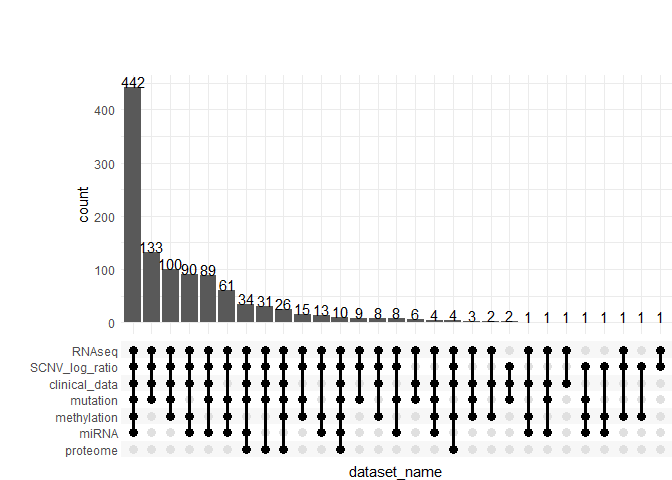
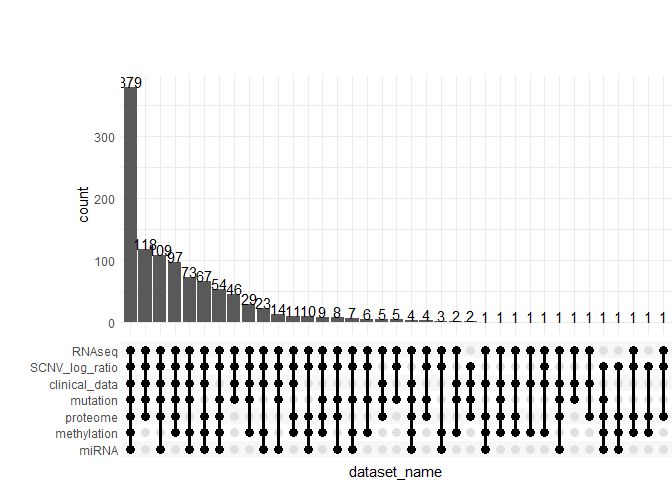
updated documentation; README v 1.4

Changed region(s): [[0.0625, 0.7188, 1.0, 0.9688], [0.125, 0.1562, 1.0, 0.6875]]

diff --git a/README.md b/README.md
@@ -35,11 +35,34 @@ clinical applications.
 
 # Installation
 
+## Development Version
+
 You can install the development version of playOmics from GitHub with:
 
 ``` r
 remotes::install_github("JagGlo/playOmics")
 ```
+
+## Docker Installation
+
+As an alternative installation method, the
+[playomics_env](https://github.com/JagGlo/playOmics_env) repository
+provides a setup for running playOmics within a Docker container. This
+setup includes testing data and scripts, offering a comprehensive R
+environment for users who prefer containerized solutions.
+
+To get started with playOmics using Docker:
+
+1.  **Installation Requirements:** Ensure you have Docker and Docker
+    Compose installed on your system.
+2.  **Repository Cloning:** Clone the
+    [playomics_env](https://github.com/JagGlo/playOmics_env) repository
+    to your local machine or server.
+3.  **Container Setup:** Follow the instructions within the repository
+    to build and start the Docker container.
+
+This method is recommended for users looking for an easy and consistent
+setup process, enabling a quick start into modelling process.
 
 # Exploring the BRCA Data
 
@@ -61,22 +84,12 @@ and additional libraries are available in your workspace.
 
 ``` r
 # load playOmics
-# library(playOmics)
+library(playOmics)
 ```
 
 ``` r
 # Load the additional required libraries
 library(tidyverse)
-#> ── Attaching core tidyverse packages ──────────────────────── tidyverse 2.0.0 ──
-#> ✔ dplyr     1.1.2     ✔ readr     2.1.4
-#> ✔ forcats   1.0.0     ✔ stringr   1.5.0
-#> ✔ ggplot2   3.4.2     ✔ tibble    3.2.1
-#> ✔ lubridate 1.9.2     ✔ tidyr     1.3.0
-#> ✔ purrr     1.0.1     
-#> ── Conflicts ────────────────────────────────────────── tidyverse_conflicts() ──
-#> ✖ dplyr::filter() masks stats::filter()
-#> ✖ dplyr::lag()    masks stats::lag()
-#> ℹ Use the conflicted package (<http://conflicted.r-lib.org/>) to force all conflicts to become errors
 library(readxl)
 ```
 
@@ -88,7 +101,6 @@ setwd() function or the here package.
 
 ``` r
 here::set_here()
-#> File .here already exists in C:\Users\jagaa\Documents\playOmics
 my_experiment_name <- "final_top5_cv5"
 ```
 
@@ -155,7 +167,7 @@ insights.
 Omics datasets that will be incorporated in the experiment:
 
 - clinical data (20 features),
-- proteome (9734 features),
+- proteome (175 features),
 - methylation (20107 features),
 - miRNA (824 features),
 - mutation (7967 features),
@@ -164,7 +176,7 @@ Omics datasets that will be incorporated in the experiment:
 
 ``` r
 proteome <-
-  read_delim("TCGA-BRCA/Human__TCGA_BRCA__BI__Proteome__QExact__01_28_2016__BI__Gene__CDAP_iTRAQ_UnsharedLogRatio_r2.cct", na = c("NA", "NA,NA"), show_col_types = F) %>%
+   read_delim("TCGA-BRCA/Human__TCGA_BRCA__MDA__RPPA__MDA_RPPA__01_28_2016__BI__Gene__Firehose_RPPA.cct", na = c("NA", "NA,NA"), show_col_types = F) %>%
   data.table::transpose(keep.names = "ID", make.names = "attrib_name") %>%
   mutate_at(vars(-ID), as.numeric)
 
@@ -174,7 +186,7 @@ methylation <-
   mutate_at(vars(-ID), as.numeric)
 
 miRNA <-
-  read_delim("TCGA-BRCA/Human__TCGA_BRCA__BDGSC__miRNASeq__HS_miR__01_28_2016__BI__Gene__Firehose_RPKM_log2.cct", na = c("NA", "NA,NA") , show_col_types = F) %>%
+  read_delim("TCGA-BRCA/Human__TCGA_BRCA__BDGSC__miRNASeq__HS_miR__01_28_2016__BI__Gene__Firehose_RPKM_log2.cct", na = c("NA", "NA,NA"), show_col_types = F) %>%
   data.table::transpose(keep.names = "ID", make.names = "attrib_name") %>%
   mutate_at(vars(-ID), as.numeric)
 
@@ -212,7 +224,7 @@ BRCA_data <- connect_datasets(clinical_data, proteome, methylation, miRNA, mutat
 BRCA_data %>% summary()
 #>                Length Class      Mode
 #> clinical_data     20  data.frame list
-#> proteome        9734  data.frame list
+#> proteome         176  data.frame list
 #> methylation    20107  data.frame list
 #> miRNA            824  data.frame list
 #> mutation        7967  data.frame list
@@ -245,8 +257,7 @@ plot_coverage(BRCA_data)
 <img src="man/figures/README-unnamed-chunk-9-1.png" width="100%" />
 
 For the BRCA data, you’ll notice various patterns of data availability,
-with the largest group (442 subjects) having complete data for six
-datasets, all except proteome.
+with the largest group (379 subjects) having complete data.
 
 ### Understanding Your Dataset
 
@@ -259,7 +270,7 @@ numeric/character/factor columns):
 data_summary(BRCA_data)
 #>     Dataset.name Number.of.samples Number.of.variables Numeric.columns
 #> 1  clinical_data               987                  20               4
-#> 2       proteome               105                9734            9733
+#> 2       proteome               887                 176             175
 #> 3    methylation               783               20107           20106
 #> 4          miRNA               755                 824             823
 #> 5       mutation               975                7967            7966
@@ -460,6 +471,7 @@ modeling experiment; let’s name them “modelling_set” for now:
 
 ``` r
 modelling_set <- splitted_data$train_data
+rm(splitted_data)
 ```
 
 As a preparation for the modeling process, we will use again the
@@ -482,7 +494,7 @@ each variable to distinguish data.
 
 ``` r
 data_prepared <-
-  prepare_data_for_modelling(data = BRCA_data_splitted$train_data, target = my_target)
+  prepare_data_for_modelling(data = BRCA_data_splitted$train_data, target = my_target, remove_correlated_features = F)
 ```
 
 Also, a test set needs to be prepared so the models can be validated on
@@ -490,7 +502,8 @@ corresponding data:
 
 ``` r
 test_data_prepared <-
-  prepare_data_for_modelling(BRCA_data_splitted$test_data, target = my_target)
+  prepare_data_for_modelling(BRCA_data_splitted$test_data, target = my_target, remove_correlated_features = F)
+rm(BRCA_data_splitted)
 ```
 
 ### Selecting features
@@ -518,10 +531,8 @@ Variables might be selected in three ways:
 
 What’s important, at this level, we are still operating on each dataset
 separately, which allows us to preserve an equal number of slots for all
-data frames.
-
-!!!! install.packages(“mlr3filters”, version=‘0.6.0’) -? due to missing
-values handling
+data frames. This approach ensures you’re working with the most relevant
+features, optimizing the model’s performance and efficiency.
 
 ``` r
 data_filtered <-
@@ -531,13 +542,36 @@ data_filtered <-
     filter_name = "auc",
     cutoff_method = "top_n",
     cutoff_treshold = 5,
+    return_ranking_list = F,
     n_fold = 5,
     n_threads = 5
   )
+rm(data_prepared)
 ```
 
-This approach ensures you’re working with the most relevant features,
-optimizing the model’s performance and efficiency.
+If the parameter “return_ranking_list” is set to TRUE, the function will
+return a list containing the filtered datasets and the ranking list. If
+you wish to obtain a ranking among all features (global ranking), you
+can use it like this:
+
+``` r
+all_data_rank <-  
+  data_filtered$ranking_list %>% 
+  bind_rows() %>%
+  arrange(desc(mean_score)) %>%
+  top_n(5, mean_score) # to select 5 features among all datasets
+
+train_data_top_5 <-
+    data_prepared %>%
+    reduce(full_join, by = c(my_target$id_variable)) %>%
+    select(-my_target$id_variable, -my_target$target_variable, everything()) %>%
+    select(my_target$id_variable, my_target$target_variable, all_data_rank$original_name)
+
+test_data_top_5 <- 
+   test_data_prepared %>%
+    reduce(full_join, by = c(my_target$id_variable)) %>%
+    select(names(train_data_top_5)) # to select the same variables as in train data
+```
 
 ### Modelling
 
@@ -575,27 +609,26 @@ lifesaver since it helps us maximize the data size, making the most of
 every single data point you have.
 
 ``` r
-create_multiple_models(
-  experiment_name = my_experiment_name,
-  train_data = data_filtered,
-  test_data = test_data_prepared,
-  target = my_target,
-  n_max = 3,
-  validate_with_permutation = FALSE,
-  n_perm = NULL,
-  trim_models = TRUE,
-  trim_metric = "train_mcc",
-  trim_threshold = 0.3,
-  # single model settings
-  validation_method = "cv",
-  n_prop = NULL,
-  n_repeats = 5,
-  log_experiment = TRUE,
-  explain = TRUE,
-  # configuration
-  n_cores = 7,
-  directory = here::here()
-)
+my_models <-
+    create_multiple_models(
+      experiment_name = my_experiment_name,
+      train_data = data_filtered,
+      test_data = test_data_prepared,
+      target = my_target,
+      n_max = 3,
+      trim_models = TRUE,
+      trim_metric = "train_mcc",
+      trim_threshold = 0.3,
+      # single model settings
+      validation_method = "cv",
+      n_prop = NULL,
+      n_repeats = 5,
+      log_experiment = TRUE,
+      explain = TRUE,
+      # configuration
+      n_cores = 5,
+      directory = here::here()
+    )
 ```
 
 When you’re running **create_multiple_models()**, you can trim away
@@ -642,7 +675,7 @@ crucial to managing the function’s computational intensity efficiently,
 allowing us to optimize the experiment’s performance without
 compromising the accuracy and reliability of the results obtained.
 
-<img src="man/figures/README-unnamed-chunk-24-1.png" width="100%" />
+<img src="man/figures/README-unnamed-chunk-25-1.png" width="100%" />
 
 ### Logging Models and Details
 
@@ -662,9 +695,23 @@ might be passed if the directory differs from the working directory.
 
 ``` r
 results <- read_model_data(
-  experiment_name = my_experiment_name, 
+  experiment_name = my_experiment_name,
   directory = here::here()
-  )
+)
+```
+
+If, at any point in the analysis, something goes wrong and you do not
+obtain the complete results, or if you wish to examine the detailed
+model logs, you can use read_logged_data() to obtain one of the
+following: “metrics,” “model_logs,” “model_coef” or “params.”
+
+``` r
+results <- read_logged_data(
+  experiment_name = my_experiment_name,
+  file_type = "metrics",
+  directory = here::here()
+  ) %>% 
+  bind_rows()
 ```
 
 The Shiny application has been developed to facilitate user interaction
@@ -768,26 +815,43 @@ alt="Prediction screen" />
 <figcaption aria-hidden="true">Prediction screen</figcaption>
 </figure>
 
-#### Model ensembling
-
 ## Validation
 
+The validation dataset, which remains unused during the model training
+phase, can be utilized to generate predictions on novel data. This
+approach mirrors the practical deployment of the developed models.
+
+The function prepare_data_for_modelling() is designed to ready newly
+acquired data for the modeling process. Subsequently, the Shiny
+application can be initiated through results_GUI(). To engage this
+functionality, activate the “Make prediction” button corresponding to
+the desired model and choose the “Select data from your env” option.
+This action will import the validation dataset into the application,
+facilitating the generation of predictions on new data. Additionally,
+the application offers the feature to dissect specific predictions
+associated with a selected ID, which can be chosen from a provided list.
+
 ``` r
-# validation_target <-
-#   define_target(phenotype_df_name = "clinical_data",
-#               id_variable_name = "ID",
-#               target_variable_name = NULL,
-#               positive_class_name = NULL
-#               )
-#
-# validation_data_prepared <-
-#     prepare_data_for_modelling(data = validation_set, target = validation_target)
+validation_target <-
+  define_target(phenotype_df_name = "clinical_data",
+              id_variable_name = "ID",
+              target_variable_name = NULL,
+              positive_class_name = NULL
+              )
+
+
+validation_data_prepared <-
+    prepare_data_for_modelling(data = validation_set, target = validation_target)
+```
+
+``` r
+results_GUI(results, target = validation_target)
 ```
 
 # Package scheme
 
 <figure>
-<img src="man/shiny_screenshots/playOmics%20scheme-General.drawio.png"
+<img src="man/shiny_screenshots/playOmics_new_scheme.png"
 alt="playOmics scheme" />
 <figcaption aria-hidden="true">playOmics scheme</figcaption>
 </figure>
